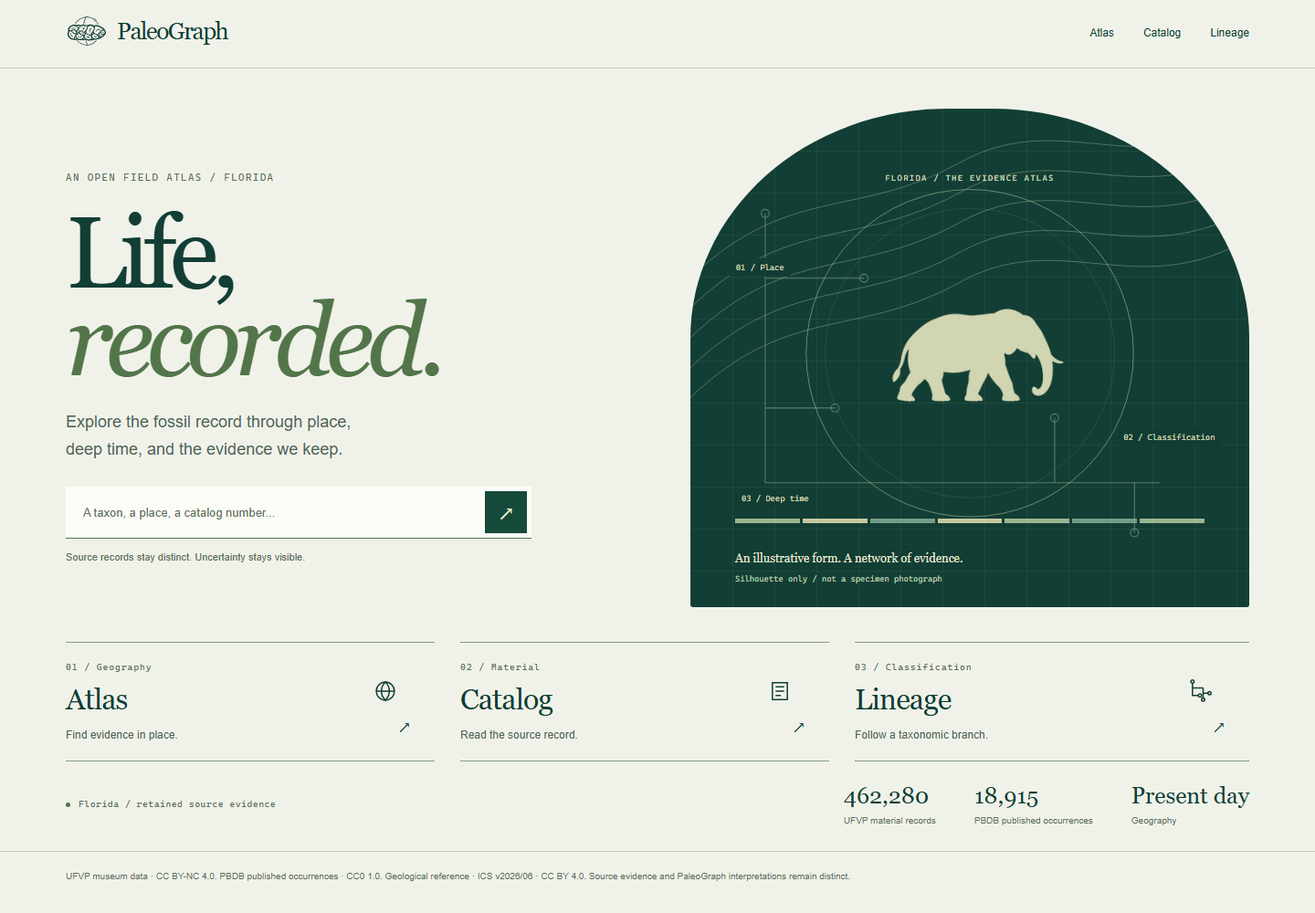
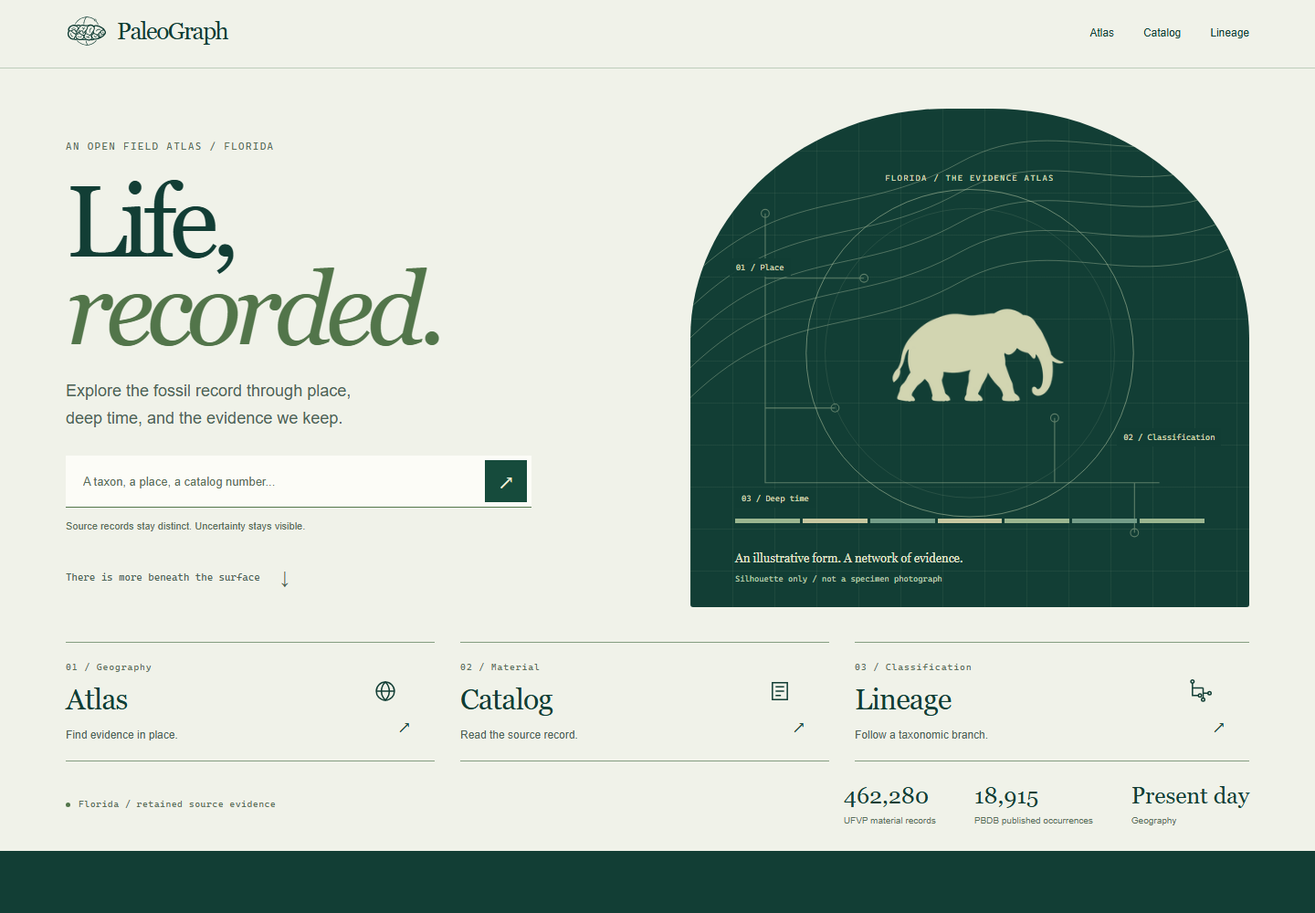
feat: expand the PaleoGraph introduction
Extend Home with an editorial vertebrate gallery, keyboard-accessible exploration study, source-context principles and an Aaron Gibson creator colophon. Add one-time section reveals, native scroll progress and reduced-motion cancellation while keeping server-rendered content available.

Refresh public Home previews and document the introduction. Validation: 122 frontend tests, 81 fixture Chromium tests, 16 read-only Florida Chromium tests, ESLint, TypeScript and production build passed.

Changed region(s): [[0.0, 0.93, 1.0, 1.0], [0.0312, 0.155, 0.3438, 0.651], [0.3438, 0.496, 0.4062, 0.589]]

diff --git a/apps/web/app/home-experience.css b/apps/web/app/home-experience.css
@@ -61,3 +61,155 @@ body:has(.home-experience) .site-header a { color: #123e35; }
   .home-destinations { padding: 0 20px; grid-template-columns: 1fr; }.home-destination { margin: 0; border-bottom: 0; padding-block: 18px; grid-template-columns: 1fr 40px; }.home-destination:last-child { border-bottom: 1px solid #849d80; }.home-destination strong { margin-top: 5px; }.home-destination p { margin-top: 5px; }
   .home-context { padding: 24px 20px; gap: 20px; }.home-context dl { gap: 20px; flex-wrap: wrap; }.home-context dd { font-size: 24px; }.home-context dt { font-size: 9px; }.home-experience .home-credit { padding-inline: 20px; }
 }
+
+/* The introduction unfolds like a field atlas: plate, collection, study, colophon. */
+.home-experience { --home-ink: #123e35; --home-paper: #f0f2e9; --home-lime: #d3d6b2; }
+.home-experience section[id] { scroll-margin-top: 28px; }
+.home-reading-progress { position: fixed; z-index: 100; top: 0; left: 0; width: 100%; height: 3px; background: #52754a; transform: scaleX(0); transform-origin: left; pointer-events: none; }
+.home-scroll-invitation { display: inline-flex; align-items: center; gap: 22px; min-height: 44px; margin-top: 24px; color: #4d6556; font: 11px var(--font-accession); text-decoration: none; }
+.home-scroll-invitation span { font: 20px var(--font-body); }
+.home-section-index { margin: 0; font: 11px/1.6 var(--font-accession); letter-spacing: .1em; text-transform: uppercase; }
+.home-experience h2 { margin: 0; font: 400 clamp(48px,6.2vw,96px)/.99 var(--font-scientific); letter-spacing: -.055em; }
+.home-experience h2 em { font-weight: 400; }
+.home-section-heading { display: grid; grid-template-columns: 1fr 2fr; gap: 5vw; align-items: start; }
+.home-section-heading .home-section-index { padding-top: 10px; }
+.home-section-heading h2 + p { max-width: 48ch; font-size: 16px; line-height: 1.8; margin: 30px 0 0; }
+.home-collection { padding: 84px 5vw 28px; background: var(--home-ink); color: var(--home-paper); }
+.home-collection .home-section-index { color: #bdc9ae; }
+.home-collection h2 em { color: var(--home-lime); }
+.home-collection .home-section-heading h2 + p { color: #ced7c5; }
+.home-cabinet { display: grid; grid-template-columns: repeat(3,minmax(0,1fr)); margin-top: 64px; border-block: 1px solid #6c8b75; }
+.home-cabinet-entry { position: relative; min-width: 0; display: flex; flex-direction: column; min-height: 380px; padding: 24px 30px 30px; color: var(--home-paper); text-decoration: none; }
+.home-cabinet-entry + .home-cabinet-entry { border-left: 1px solid #6c8b75; }
+.cabinet-accession { color: #bdc9ae; font: 10px var(--font-accession); letter-spacing: .08em; }
+.home-cabinet-form { display: block; flex: 1; width: 100%; min-height: 200px; background: var(--home-lime); mask-position: center; mask-size: 100% auto; mask-repeat: no-repeat; }
+.cabinet-proboscidean { mask-image: url('/taxonomy/silhouettes/proboscidean.png'); }
+.cabinet-crocodilian { mask-image: url('/taxonomy/silhouettes/crocodilian.png'); }
+.cabinet-shark { mask-image: url('/taxonomy/silhouettes/shark.png'); }
+.cabinet-description { display: flex; flex-direction: column; gap: 12px; }
+.cabinet-description small { color: #bdc9ae; font: 11px var(--font-accession); }
+.cabinet-description strong { font: 400 clamp(28px,3vw,44px)/1.1 var(--font-scientific); letter-spacing: -.035em; }
+.cabinet-action { display: flex; align-items: center; justify-content: space-between; font-size: 11px; color: #d3d6b2; }
+.cabinet-action > span { font-size: 22px; }
+.home-cabinet-entry:is(:hover,:focus-visible) { background: #224d40; color: #fffef1; text-decoration: none; }
+.home-artwork-note { max-width: none; margin: 18px 0 0; font: 10px/1.7 var(--font-accession); color: #bdc9ae; }
+.home-pathways { display: grid; grid-template-columns: 1fr 1fr; align-items: start; gap: 8vw; padding: 110px 5vw; }
+.home-pathways-intro { position: sticky; top: 56px; }
+.home-pathways-intro h2 { font-size: clamp(44px,4.7vw,74px); margin-top: 32px; }
+.home-pathways-intro h2 em, .home-principles h2 em { color: #52754a; }
+.home-pathways-intro > p:not(.home-section-index) { color: #4d6556; font-size: 16px; line-height: 1.8; max-width: 40ch; margin-top: 30px; }
+.home-pathway-rule { display: block; width: 100px; height: 1px; margin-top: 36px; background: #849d80; }
+.home-study { min-width: 0; }
+.home-study-tabs { display: flex; border-block: 1px solid #849d80; }
+.home-study-tabs button { display: flex; align-items: center; justify-content: center; gap: 12px; flex: 1; min-width: 0; min-height: 60px; padding: 12px 8px; border: 0; background: transparent; color: #4d6556; font: 13px var(--font-body); cursor: pointer; }
+.home-study-tabs button + button { border-left: 1px solid #bdcbb7; }
+.home-study-tabs button[aria-selected="true"] { background: #123e35; color: #f0f2e9; }
+.study-tab-number { font: 9px var(--font-accession); opacity: .8; }
+.home-study-drawing { position: relative; height: 280px; margin: 24px 0 32px; border: 1px solid #bdcbb7; overflow: hidden; background-color: #e4e9df; background-image: linear-gradient(#849d801a 1px,transparent 1px),linear-gradient(90deg,#849d801a 1px,transparent 1px); background-size: 28px 28px; }
+.home-study-drawing > svg { width: 100%; height: 100%; }
+.home-study-drawing svg text { font: 10px var(--font-accession); letter-spacing: .06em; }
+.study-contours { opacity: .4; }
+.home-study-caption { position: absolute; bottom: 0; left: 0; right: 0; padding: 9px 14px; background: #e4e9dfe8; color: #4d6556; font: 9px/1.4 var(--font-accession); }
+.study-accession { position: absolute; inset: 24px 26px 46px; display: grid; grid-template-columns: 1fr 1fr; grid-template-rows: 26px 1fr; column-gap: 20px; padding: 16px; border: 1px solid #849d80; background: #f8f8f0; transform: rotate(-2deg); }
+.study-accession-label { grid-column: 1 / -1; font: 9px var(--font-accession); letter-spacing: .1em; }
+.study-material-form { background: #52754a; mask: url('/taxonomy/silhouettes/proboscidean.png') center / 100% auto no-repeat; }
+.study-accession-fields { display: flex; flex-direction: column; justify-content: center; }
+.study-accession-fields > span { padding: 7px 0; border-bottom: 1px solid #bdcbb7; font: 10px var(--font-accession); }
+.home-study h3 { margin: 0; font: 400 34px/1.15 var(--font-scientific); letter-spacing: -.035em; }
+.home-study-content > p { font-size: 15px; line-height: 1.8; color: #4d6556; min-height: 108px; margin: 20px 0; }
+.home-editorial-link { display: inline-flex; align-items: center; justify-content: space-between; gap: 56px; min-height: 48px; border-bottom: 1px solid #849d80; color: #123e35; font-size: 13px; text-decoration: none; }
+.home-editorial-link > span { font-size: 24px; }
+.home-principles { padding: 0 5vw 104px; }
+.home-principles-heading { border-top: 1px solid #849d80; padding-top: 32px; display: grid; grid-template-columns: 1fr 2fr; gap: 5vw; }
+.home-principles-heading h2 { font-size: clamp(40px,4.8vw,72px); }
+.home-principle-list { display: grid; grid-template-columns: repeat(3,minmax(0,1fr)); gap: 40px; margin-top: 64px; }
+.home-principle-list > div { border-top: 1px solid #bdcbb7; padding-top: 20px; }
+.home-principle-list > div > span { font: 11px var(--font-accession); color: #5a705a; }
+.home-principle-list h3 { font: 400 27px/1.2 var(--font-scientific); letter-spacing: -.025em; margin: 22px 0 14px; }
+.home-principle-list p { margin: 0; font-size: 14px; line-height: 1.8; color: #4d6556; }
+.home-maker { padding: 52px 5vw 64px; background: #dce4d2; border-top: 1px solid #849d80; }
+.home-maker-top { display: flex; align-items: center; justify-content: space-between; gap: 24px; }
+.home-maker-top .brand-mark { width: 104px; height: 82px; }
+.home-maker h2 { font-size: clamp(66px,10.4vw,164px); margin-block: 24px 64px; }
+.home-maker h2 em { color: #52754a; }
+.home-maker-bottom { display: grid; grid-template-columns: 1fr 1fr; gap: 8vw; align-items: end; }
+.home-maker-label { font: 10px var(--font-accession); letter-spacing: .1em; text-transform: uppercase; margin: 0 0 12px; color: #4d6556; }
+.home-maker-name { display: inline-flex; align-items: center; gap: 24px; min-height: 48px; font: 400 clamp(32px,3.3vw,48px)/1.1 var(--font-scientific); letter-spacing: -.035em; color: #123e35; text-decoration: none; }
+.home-maker-name > span { font: 26px var(--font-body); }
+.home-maker-note { font-size: 14px; line-height: 1.8; max-width: 46ch; margin: 20px 0 12px; color: #4d6556; }
+.home-related-project { display: inline-flex; align-items: center; gap: 12px; min-height: 44px; font: 10px/1.6 var(--font-accession); color: #4d6556; }
+.home-maker-launch { display: flex; align-items: center; justify-content: space-between; gap: 30px; min-height: 120px; padding: 22px 30px; box-sizing: border-box; border: 1px solid #849d80; color: #123e35; font: 400 clamp(28px,3vw,44px)/1.1 var(--font-scientific); letter-spacing: -.035em; text-decoration: none; }
+.home-maker-launch > span:last-child { font: 48px var(--font-body); }
+.home-maker-launch:is(:hover,:focus-visible) { background: #123e35; color: #f0f2e9; text-decoration: none; }
+.home-experience .home-credit { font-size: 11px; }
+.home-collection :is(a,button):focus-visible { outline-color: #d3d6b2; }
+.home-study [role="tabpanel"]:focus-visible { outline: 2px solid #9d4b30; outline-offset: 8px; }
+@keyframes home-page-progress { to { transform: scaleX(1); } }
+@keyframes home-study-enter { from { opacity: .3; transform: translateY(10px); } to { opacity: 1; transform: translateY(0); } }
+@keyframes home-line-draw { from { stroke-dashoffset: 900; } to { stroke-dashoffset: 0; } }
+@media (prefers-reduced-motion: no-preference) {
+  .home-cabinet-entry, .home-maker-launch { transition: background-color 280ms var(--ease-out),color 280ms var(--ease-out); }
+  .home-cabinet-form, .cabinet-action > span, .home-scroll-invitation > span, .home-maker-launch > span:last-child { transition: transform 500ms var(--ease-out); }
+  .home-cabinet-entry:is(:hover,:focus-visible) .home-cabinet-form { transform: translateY(-8px) rotate(-2deg); }
+  .home-cabinet-entry:is(:hover,:focus-visible) .cabinet-action > span, .home-maker-launch:is(:hover,:focus-visible) > span:last-child { transform: translate(5px,-5px); }
+  .home-scroll-invitation:is(:hover,:focus-visible) > span { transform: translateY(5px); }
+  .home-study-content { animation: home-study-enter 360ms var(--ease-out); }
+  .study-branch-path { stroke-dasharray: 900; animation: home-line-draw 800ms var(--ease-out) both; }
+  @supports (animation-timeline: scroll()) {
+    .home-reading-progress { animation: home-page-progress linear both; animation-timeline: scroll(root); }
+  }
+}
+@media (min-width: 1800px) { .home-collection, .home-pathways, .home-principles, .home-maker { padding-inline: max(5vw,calc((100vw - 1620px) / 2)); } }
+@media (max-width: 1024px) {
+  .home-section-heading, .home-principles-heading { grid-template-columns: 1fr 3fr; }
+  .home-cabinet-entry { padding-inline: 20px; min-height: 330px; }
+  .home-cabinet-form { min-height: 170px; }
+  .home-pathways { gap: 5vw; padding-block: 84px; }
+  .home-pathways-intro h2 { font-size: 48px; }
+  .home-study-drawing { height: 250px; }
+  .home-study-tabs button { gap: 7px; font-size: 12px; }
+  .home-study-content > p { min-height: 135px; }
+  .home-principle-list { gap: 28px; }
+  .home-maker-launch { padding: 22px; }
+}
+@media (max-width: 700px) {
+  .home-scroll-invitation { margin-top: 16px; font-size: 10px; }
+  .home-collection { padding: 48px 20px 24px; }
+  .home-section-heading, .home-principles-heading { grid-template-columns: 1fr; gap: 26px; }
+  .home-section-heading .home-section-index { padding-top: 0; }
+  .home-experience h2 { font-size: clamp(44px,11vw,64px); }
+  .home-section-heading h2 + p { margin-top: 24px; font-size: 14px; }
+  .home-cabinet { grid-template-columns: 1fr; margin-top: 36px; }
+  .home-cabinet-entry { min-height: 320px; padding: 24px 8px; }
+  .home-cabinet-entry + .home-cabinet-entry { border-left: 0; border-top: 1px solid #6c8b75; }
+  .home-cabinet-form { min-height: 180px; max-width: 400px; align-self: center; }
+  .cabinet-description strong { font-size: 34px; }
+  .home-artwork-note { font-size: 9px; }
+  .home-pathways { grid-template-columns: 1fr; gap: 32px; padding: 56px 20px; }
+  .home-pathways-intro { position: static; }
+  .home-pathways-intro h2 { margin-top: 24px; font-size: clamp(40px,10.4vw,60px); }
+  .home-pathways-intro > p:not(.home-section-index) { margin-top: 24px; font-size: 14px; }
+  .home-pathway-rule { display: none; }
+  .home-study-drawing { height: 240px; margin-bottom: 26px; }
+  .home-study h3 { font-size: 31px; }
+  .home-study-content > p { min-height: 0; font-size: 14px; }
+  .home-study-tabs button { min-height: 56px; }
+  .study-accession { inset-inline: 20px; column-gap: 12px; padding: 12px; }
+  .home-principles { padding: 0 20px 56px; }
+  .home-principles-heading { padding-top: 26px; }
+  .home-principles-heading h2 { font-size: clamp(40px,10.5vw,58px); }
+  .home-principle-list { grid-template-columns: 1fr; gap: 24px; margin-top: 32px; }
+  .home-principle-list > div { display: grid; grid-template-columns: 24px 1fr; column-gap: 18px; }
+  .home-principle-list > div > span { padding-top: 5px; }
+  .home-principle-list h3 { font-size: 26px; margin: 0 0 14px; }
+  .home-principle-list p { grid-column: 2; font-size: 13px; }
+  .home-maker { padding: 32px 20px 40px; }
+  .home-maker-top .brand-mark { width: 72px; height: 56px; }
+  .home-maker-top .home-section-index { font-size: 9px; max-width: 22ch; }
+  .home-maker h2 { font-size: clamp(58px,13vw,88px); margin-block: 32px 40px; }
+  .home-maker-bottom { grid-template-columns: 1fr; gap: 32px; }
+  .home-maker-name { font-size: 34px; }
+  .home-maker-note { font-size: 13px; }
+  .home-related-project { font-size: 9px; }
+  .home-maker-launch { min-height: 100px; font-size: 32px; }
+}

diff --git a/apps/web/app/page.tsx b/apps/web/app/page.tsx
@@ -1,10 +1,15 @@
 import Link from "next/link";
 import { HomeContext } from "../features/explore/HomeContext";
 import { NavigationIcon } from "../features/explore/NavigationIcon";
+import { BrandMark } from "../features/brand/PaleoGraphBrand";
+import { HomeMotion } from "../features/home/HomeMotion";
+import { HomeStudy } from "../features/home/HomeStudy";
 import "./home-experience.css";
 
 export default function HomePage() {
   return <div className="home-atlas home-experience">
+    <HomeMotion />
+    <div className="home-reading-progress" aria-hidden="true" />
     <section className="home-field" aria-labelledby="home-title">
       <div className="home-introduction">
         <p className="eyebrow">An open field atlas / Florida</p>
@@ -17,6 +22,7 @@ export default function HomePage() {
           <button type="submit" aria-label="Search the archive"><span aria-hidden="true">&#8599;</span></button>
         </form>
         <p className="home-search-note">Source records stay distinct. Uncertainty stays visible.</p>
+        <a className="home-scroll-invitation" href="#the-collection">There is more beneath the surface <span aria-hidden="true">↓</span></a>
       </div>
       <div className="home-plate" aria-label="Illustrative animal silhouette with abstract geography, classification and time layers; not a specimen image or scientific reconstruction" role="img">
         <div className="home-plate-grid" />
@@ -37,6 +43,34 @@ export default function HomePage() {
       <Link className="home-destination home-destination-lineage" href="/lineage"><span className="destination-number">03 / Classification</span><NavigationIcon kind="lineage" /><strong>Lineage</strong><p>Follow a taxonomic branch.</p><span className="destination-arrow" aria-hidden="true">&#8599;</span></Link>
     </nav>
     <HomeContext />
+    <section className="home-collection" id="the-collection" aria-labelledby="home-collection-title">
+      <div className="home-section-heading" data-home-reveal><p className="home-section-index">01 / The living archive</p><div><h2 id="home-collection-title">A past worth<br /><em>looking into.</em></h2><p>Long before the familiar landscape, there were other lives here. Follow their traces through Florida&apos;s museum material and published fossil evidence.</p></div></div>
+      <div className="home-cabinet" data-home-reveal>
+        {[
+          { name: "Proboscideans", query: "Proboscidea", form: "proboscidean", detail: "A different kind of giant" },
+          { name: "Crocodilians", query: "Crocodylia", form: "crocodilian", detail: "An enduring presence" },
+          { name: "Sharks & rays", query: "Chondrichthyes", form: "shark", detail: "Traces of ancient waters" },
+        ].map((item, index) => <Link key={item.form} className="home-cabinet-entry" href={`/explore?source=all&q=${item.query}`} aria-label={`Explore ${item.name.toLowerCase()} in the evidence archive`}><span className="cabinet-accession">FIELD STUDY / 0{index + 1}</span><span className={`home-cabinet-form cabinet-${item.form}`} aria-hidden="true" /><span className="cabinet-description"><small>{item.detail}</small><strong>{item.name}</strong><span className="cabinet-action">Explore the evidence <span aria-hidden="true">↗</span></span></span></Link>)}
+      </div>
+      <p className="home-artwork-note">Illustrative forms / orientation, not specimen imagery or species reconstructions.</p>
+    </section>
+    <section className="home-pathways" aria-labelledby="home-pathways-title">
+      <div className="home-pathways-intro" data-home-reveal><p className="home-section-index">02 / A way of seeing</p><h2 id="home-pathways-title">The story changes<br />with your <em>perspective.</em></h2><p>A place opens a collection. A record opens a question. A branch opens another way through. Choose where your curiosity begins.</p><span className="home-pathway-rule" aria-hidden="true" /></div>
+      <HomeStudy />
+    </section>
+    <section className="home-principles" aria-labelledby="home-principles-title">
+      <div className="home-principles-heading" data-home-reveal><p className="home-section-index">03 / Kept in context</p><h2 id="home-principles-title">Wonder, with<br /><em>the evidence attached.</em></h2></div>
+      <div className="home-principle-list" data-home-reveal>
+        <div><span aria-hidden="true">01</span><h3>A source stays a source.</h3><p>Museum material and published occurrences sit alongside one another, with their identities and provenance intact.</p></div>
+        <div><span aria-hidden="true">02</span><h3>Uncertainty belongs here.</h3><p>Missing ages, qualified identifications, and differing source classifications remain part of the story.</p></div>
+        <div><span aria-hidden="true">03</span><h3>Context goes with you.</h3><p>Move between map, catalog, and classification. Follow the evidence back to the record behind it.</p></div>
+      </div>
+    </section>
+    <section className="home-maker" aria-labelledby="home-maker-title">
+      <div className="home-maker-top" data-home-reveal><span className="home-section-index">An independent field atlas</span><BrandMark /></div>
+      <h2 id="home-maker-title" data-home-reveal>For the curious.<br /><em>For the record.</em></h2>
+      <div className="home-maker-bottom" data-home-reveal><div><p className="home-maker-label">Designed &amp; built by</p><a className="home-maker-name" href="https://github.com/AaronGibson2">Aaron Gibson <span aria-hidden="true">↗</span></a><p className="home-maker-note">A personal project at the meeting point of vertebrate paleontology, data, and a curiosity about what came before.</p><a className="home-related-project" href="https://github.com/AaronGibson2/proboscidean-morphometrics-ml">Also exploring / proboscidean morphometrics <span aria-hidden="true">↗</span></a></div><Link className="home-maker-launch" href="/explore"><span>Begin exploring</span><span aria-hidden="true">↗</span></Link></div>
+    </section>
     <footer className="home-credit">UFVP museum data &middot; CC BY-NC 4.0. PBDB published occurrences &middot; CC0 1.0. Geological reference &middot; ICS v2026/06 &middot; CC BY 4.0. Source evidence and PaleoGraph interpretations remain distinct.</footer>
   </div>;
 }

diff --git a/apps/web/features/home/HomeStudy.tsx b/apps/web/features/home/HomeStudy.tsx
@@ -1,0 +1,40 @@
+"use client";
+
+import Link from "next/link";
+import { useRef, useState } from "react";
+
+const studies = [
+  { name: "Place", title: "Begin with a landscape.", copy: "Explore represented museum evidence on the map. Open a locality, meet its recorded fauna, and follow the material behind it.", href: "/explore", action: "Open the Atlas" },
+  { name: "Material", title: "Get closer to the record.", copy: "Move from a name to its catalog identity, identification, age evidence, and provenance. Museum material and published occurrences keep their distinct roles.", href: "/explore?catalog=open&source=all", action: "Browse the Catalog" },
+  { name: "Lineage", title: "Follow another branch.", copy: "Move through the retained classification, see evidence from each source, and explore the records within a group. A browsing hierarchy, with its source context intact.", href: "/lineage", action: "Explore Lineage" },
+] as const;
+
+export function HomeStudy() {
+  const [active, setActive] = useState(0);
+  const tabs = useRef<(HTMLButtonElement | null)[]>([]);
+  const study = studies[active];
+  return <div className="home-study" data-home-reveal>
+    <div className="home-study-tabs" role="tablist" aria-label="Ways to explore the evidence">
+      {studies.map((item, index) => <button key={item.name} ref={element => { tabs.current[index] = element; }} id={`home-study-tab-${index}`} type="button" role="tab" aria-selected={active === index} aria-controls="home-study-panel" tabIndex={active === index ? 0 : -1} onClick={() => setActive(index)} onKeyDown={event => {
+        const next = event.key === "ArrowRight" ? (index + 1) % studies.length : event.key === "ArrowLeft" ? (index + studies.length - 1) % studies.length : event.key === "Home" ? 0 : event.key === "End" ? studies.length - 1 : null;
+        if (next == null) return;
+        event.preventDefault();
+        setActive(next);
+        tabs.current[next]?.focus();
+      }}><span className="study-tab-number" aria-hidden="true">0{index + 1}</span>{item.name}</button>)}
+    </div>
+    <div id="home-study-panel" role="tabpanel" aria-labelledby={`home-study-tab-${active}`} tabIndex={0}>
+      <div className="home-study-content" key={active}>
+        <div className={`home-study-drawing study-drawing-${active}`} aria-hidden="true">
+          {active === 0 ? <svg viewBox="0 0 560 270" fill="none"><g className="study-contours" stroke="currentColor"><path d="M-20 160C80 30 160 140 260 55S430 25 590 10M-20 190C80 60 160 170 260 85S430 55 590 40M-20 220C80 90 160 200 260 115S430 85 590 70M-20 250C80 120 160 230 260 145S430 115 590 100M-20 280C80 150 160 260 260 175S430 145 590 130"/></g><path d="M296 44v180M205 134h182" stroke="currentColor" strokeDasharray="3 6" opacity=".45"/><circle cx="296" cy="134" r="52" stroke="currentColor" opacity=".35"/><circle className="study-location-ring" cx="296" cy="134" r="18" stroke="currentColor"/><circle cx="296" cy="134" r="5" fill="currentColor"/><path d="m316 119 40-35h83" stroke="currentColor"/><text x="362" y="73" fill="currentColor">A PLACE TO BEGIN</text></svg>
+          : active === 1 ? <div className="study-accession"><span className="study-accession-label">THE SOURCE RECORD</span><span className="study-material-form" /><div className="study-accession-fields"><span>Catalog identity</span><span>Identification</span><span>Age evidence</span><span>Provenance</span></div></div>
+          : <svg viewBox="0 0 560 270" fill="none"><path className="study-branch-path" d="M110 38v178h80M110 86h130v125h80M240 140h125v71h80" stroke="currentColor" strokeWidth="1.5"/>{[[110,38],[190,216],[240,86],[320,211],[365,140],[445,211]].map(([x,y])=><circle key={`${x}-${y}`} cx={x} cy={y} r="5" fill="currentColor"/>)}<g fill="currentColor"><text x="126" y="42">CLASS</text><text x="256" y="90">ORDER</text><text x="381" y="144">FAMILY</text><text x="461" y="215">GENUS</text></g></svg>}
+          <span className="home-study-caption">Interface study / schematic, not a source record</span>
+        </div>
+        <h3>{study.title}</h3>
+        <p>{study.copy}</p>
+        <Link className="home-editorial-link" href={study.href}>{study.action}<span aria-hidden="true">↗</span></Link>
+      </div>
+    </div>
+  </div>;
+}

diff --git a/apps/web/tests/e2e/home-experience.spec.ts b/apps/web/tests/e2e/home-experience.spec.ts
@@ -65,3 +65,58 @@ test("Home remains navigable when live source totals are unavailable", async ({ 
   await page.getByRole("navigation", { name: "Main navigation" }).getByRole("link", { name: "Atlas", exact: true }).click();
   await expect(page.locator(".maplibregl-canvas")).toBeVisible();
 });
+
+test("Home editorial studies offer keyboard navigation, source search and a creator credit", async ({ page }) => {
+  await page.goto("/");
+  await page.getByRole("link", { name: /There is more beneath the surface/ }).click();
+  await expect(page.getByRole("heading", { name: "A past worth looking into." })).toBeInViewport();
+  await expect(page.getByRole("link", { name: "Explore proboscideans in the evidence archive" })).toHaveAttribute("href", "/explore?source=all&q=Proboscidea");
+  await expect(page.getByRole("link", { name: "Explore crocodilians in the evidence archive" })).toHaveAttribute("href", "/explore?source=all&q=Crocodylia");
+  await expect(page.getByRole("link", { name: /Aaron Gibson/ })).toHaveAttribute("href", "https://github.com/AaronGibson2");
+  const place = page.getByRole("tab", { name: /Place/ });
+  await place.focus();
+  await page.keyboard.press("ArrowRight");
+  await expect(page.getByRole("tab", { name: /Material/ })).toBeFocused();
+  await expect(page.getByRole("tabpanel")).toContainText("Get closer to the record.");
+  await expect(page.getByRole("tabpanel").getByRole("link")).toHaveAttribute("href", "/explore?catalog=open&source=all");
+  await page.keyboard.press("End");
+  await expect(page.getByRole("tab", { name: /Lineage/ })).toHaveAttribute("aria-selected", "true");
+  await expect(page.getByRole("tabpanel")).toContainText("Follow another branch.");
+  await page.keyboard.press("Home");
+  await expect(place).toBeFocused();
+  await expect(page.getByRole("tabpanel")).toContainText("Begin with a landscape.");
+  await page.keyboard.press("ArrowLeft");
+  await page.getByRole("tabpanel").getByRole("link", { name: /Explore Lineage/ }).click();
+  await expect(page.getByRole("treeitem").first()).toBeVisible();
+});
+
+test("Home extended sections stay readable on phones and stop motion when preferences change", async ({ page }) => {
+  await page.setViewportSize({ width: 390, height: 844 });
+  await page.goto("/");
+  await page.locator(".home-collection").scrollIntoViewIfNeeded();
+  await page.emulateMedia({ reducedMotion: "reduce" });
+  await expect.poll(() => page.locator(".home-experience").evaluate(element => element.getAnimations({ subtree: true }).filter(animation => animation.playState === "running").length)).toBe(0);
+  for (const selector of [".home-cabinet", ".home-pathways", ".home-principles", ".home-maker"]) {
+    await page.locator(selector).scrollIntoViewIfNeeded();
+    expect(await page.evaluate(() => document.documentElement.scrollWidth <= innerWidth)).toBe(true);
+  }
+  await page.getByRole("tab", { name: /Material/ }).click();
+  expect(await page.locator(".home-study-content").evaluate(element => getComputedStyle(element).animationName)).toBe("none");
+  expect((await page.getByRole("tab", { name: /Material/ }).boundingBox())!.height).toBeGreaterThanOrEqual(44);
+  await expect(page.getByRole("tabpanel")).toContainText("Get closer to the record.");
+});
+
+test("Home story and primary exploration remain available without JavaScript", async ({ browser }) => {
+  const context = await browser.newContext({ javaScriptEnabled: false });
+  try {
+    const page = await context.newPage();
+    await page.goto("/");
+    await expect(page.getByRole("heading", { name: /For the curious\.\s*For the record\./ })).toBeVisible();
+    await expect(page.getByRole("link", { name: /Aaron Gibson/ })).toBeVisible();
+    await expect(page.getByRole("searchbox")).toBeEditable();
+    await expect(page.getByRole("link", { name: /Begin exploring/ })).toHaveAttribute("href", "/explore");
+    await expect(page.locator("[data-home-reveal]").first()).toHaveCSS("opacity", "1");
+  } finally {
+    await context.close();
+  }
+});

diff --git a/apps/web/features/home/HomeMotion.tsx b/apps/web/features/home/HomeMotion.tsx
@@ -1,0 +1,39 @@
+"use client";
+
+import { useEffect } from "react";
+
+/** Reveal each editorial section once; content remains available without JS. */
+export function HomeMotion() {
+  useEffect(() => {
+    const root = document.querySelector(".home-experience");
+    if (!root || !("IntersectionObserver" in window)) return;
+    const motion = window.matchMedia("(prefers-reduced-motion: reduce)");
+    const animations = new Set<Animation>();
+    const observer = new IntersectionObserver(entries => {
+      for (const entry of entries) {
+        if (!entry.isIntersecting) continue;
+        observer.unobserve(entry.target);
+        if (motion.matches || entry.target.contains(document.activeElement)) continue;
+        const animation = entry.target.animate([
+          { opacity: .2, transform: "translateY(28px)" },
+          { opacity: 1, transform: "translateY(0)" },
+        ], { duration: 720, easing: "cubic-bezier(.2,.7,.2,1)" });
+        animations.add(animation);
+        animation.finished.then(() => animations.delete(animation), () => animations.delete(animation));
+      }
+    }, { threshold: .12 });
+    root.querySelectorAll("[data-home-reveal]").forEach(element => observer.observe(element));
+    const stopMotion = () => { for (const animation of animations) animation.cancel(); };
+    const onPreference = () => { if (motion.matches) stopMotion(); };
+    // Keyboard users should never have to wait for a section entrance.
+    root.addEventListener("focusin", stopMotion);
+    motion.addEventListener("change", onPreference);
+    return () => {
+      observer.disconnect();
+      stopMotion();
+      root.removeEventListener("focusin", stopMotion);
+      motion.removeEventListener("change", onPreference);
+    };
+  }, []);
+  return null;
+}

diff --git a/docs/data-sources.md b/docs/data-sources.md
@@ -30,6 +30,6 @@ The reference is pinned to **ICS 2026/06**: 178 chart units and eight separately
 
 The 27 shipped animal archetypes comprise fourteen PNGs generated with GPT Image and thirteen original filled SVG silhouettes. They are curated decorative interface artwork, not scientific specimen images, exact species reconstructions, or third-party museum assets. The molar and raised atlas arc logo is a vector conversion of an approved GPT Image design study, informed by a user-supplied occlusal tooth reference; no museum photograph is embedded. [Visual identity](visual-identity.md) describes the reusable assets and their scope. Original fallback glyphs contain their own CC0 dedication. Source membership rules select icons; labels do not establish identity. There is no runtime AI service.
 
-The seven screenshots in `docs/screenshots/` show actual local application views: Home, Atlas, Catalog Records, unified Lineage, search, source references, and a phone-width Catalog. They were captured from the current interface with retained Florida evidence on 2026-10-27, using read-only application/API routes and live attributed cartographic layers. The Home illustration and record icons are decorative forms. Embedded UFVP/PBDB content, ICS reference presentation, and map layers retain their respective rights; the software license does not grant unrestricted reuse of all pixels. Attribution remains visible. Screenshots are not downloadable source datasets.
+The eight screenshots in `docs/screenshots/` show actual local application views: Home, its extended introduction, Atlas, Catalog Records, unified Lineage, search, source references, and a phone-width Catalog. They were captured from the current interface with retained Florida evidence on 2026-10-27, using read-only application/API routes and live attributed cartographic layers. The Home illustration, gallery forms, schematic study diagrams, and record icons are decorative. Embedded UFVP/PBDB content, ICS reference presentation, and map layers retain their respective rights; the software license does not grant unrestricted reuse of all pixels. Attribution remains visible. Screenshots are not downloadable source datasets.
 
 Maps use [OpenFreeMap](https://openfreemap.org/), OpenMapTiles and OpenStreetMap contributors. Preserve displayed attribution and applicable [OpenStreetMap rights](https://www.openstreetmap.org/copyright) and provider terms. No tile/font archive is committed. Cartographic infrastructure is separate from scientific evidence.

diff --git a/README.md b/README.md
@@ -12,12 +12,20 @@ PaleoGraph is a provenance-aware paleobiology workspace for Florida's fossil rec
 
 Move between an interactive Atlas, a shared evidence Catalog, unified Florida Taxonomy in Lineage, and layered source dossiers. Search taxa, places, and catalog numbers; inspect identifications, age evidence, source revisions, and explicit bibliographic relationships.
 
+- **Introduction:** an editorial field atlas with a vertebrate gallery, an interactive Place / Material / Lineage study, scroll reveals, and a creator credit for Aaron Gibson. Search and primary destinations remain immediately available; reduced motion and no-JavaScript reading are supported.
 - **Atlas:** explore represented museum evidence on present-day geography, with locality context and a compact geological time selector.
 - **Catalog:** switch between dense List and visual Records presentations, with source-specific labels and decorative animal forms.
 - **Lineage:** expand a shared classification tree, inspect combined and source-specific counts, and follow complete retained source paths. Hover and keyboard-focus previews offer context before opening a dossier.
 - **Dossiers:** follow section navigation through classification, time, material, provenance, and references without losing the exploration context.
 
 The **molar and raised atlas arc** mark, evergreen navigation rail, editorial typography, and 27 decorative animal archetypes form the current [visual identity](docs/visual-identity.md). The tooth connects the identity to vertebrate paleontology; the atlas arc connects it to place and exploration. Responsive layouts and reduced-motion support carry the same workspace across screen sizes. Animal forms are orientation aids, not specimen photographs or species reconstructions.
+
+<details>
+<summary>View the expanded introduction and creator section</summary>
+
+![Full PaleoGraph introduction with the vertebrate collection gallery, interactive exploration study, evidence principles, and Aaron Gibson creator credit](docs/screenshots/home-story.png)
+
+</details>
 
 The validated local scientific dataset contains **462,280 UFVP records**, **18,915 Florida PBDB occurrences**, and **1,118 PBDB collections**. Museum catalog assertions can describe multiple pieces. Published occurrences remain distinct from physical specimens; PBDB ingestion creates **zero canonical Specimens**.
 

diff --git a/docs/visual-identity.md b/docs/visual-identity.md
@@ -11,6 +11,12 @@ The approved GPT Image study was converted to single-ink vector paths, preservin
 
 Use the full signature where space permits and the compact mark in navigation. Preserve the wider proportions and clear space around the outer rim and arc; do not stretch the tooth into a square. Fine enamel detail naturally recedes at favicon sizes. Parent links retain the accessible PaleoGraph name, so recognition does not depend on interpreting the tooth. Avoid additional animation or repeated logos in scientific records.
 
+## Introductory atlas
+
+Home extends the opening field plate into an editorial collection gallery, an interactive Place / Material / Lineage study, source-context principles, and a creator colophon for Aaron Gibson. Gallery links open ordinary source search; the diagrams are labeled schematic and contain no invented records, ages, or map positions. Existing animal silhouettes remain decorative.
+
+One-time section reveals, a scroll progress rule, enamel-mark branding, and hover/focus responses provide motion without scroll interception or a new animation framework. The study supports arrow, Home, and End keys. Reduced motion removes nonessential movement, including an active section reveal when the preference changes. Main content and exploration links render without JavaScript; the initial search never waits for the editorial effects.
+
 ## Decorative animal coverage
 
 The renderer has 27 reusable body forms: the existing 14 transparent raster masks and 13 original filled vector silhouettes. New forms cover rays, salamanders, lizards, carnivorans, ground sloths, glyptodonts, eels, flatfishes, small insectivores, marsupials, angel sharks, pinnipeds and cetaceans. They share the existing single-ink mask treatment and fit dense rows without new image frameworks or network services.
